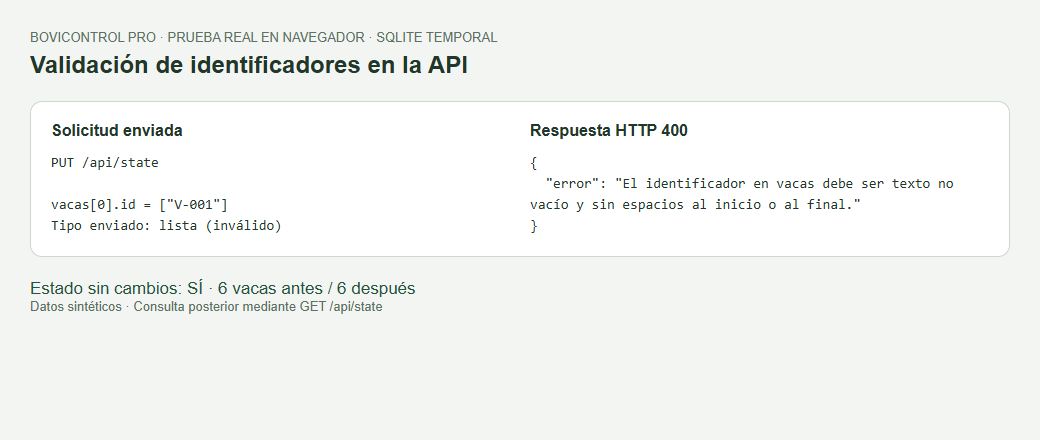
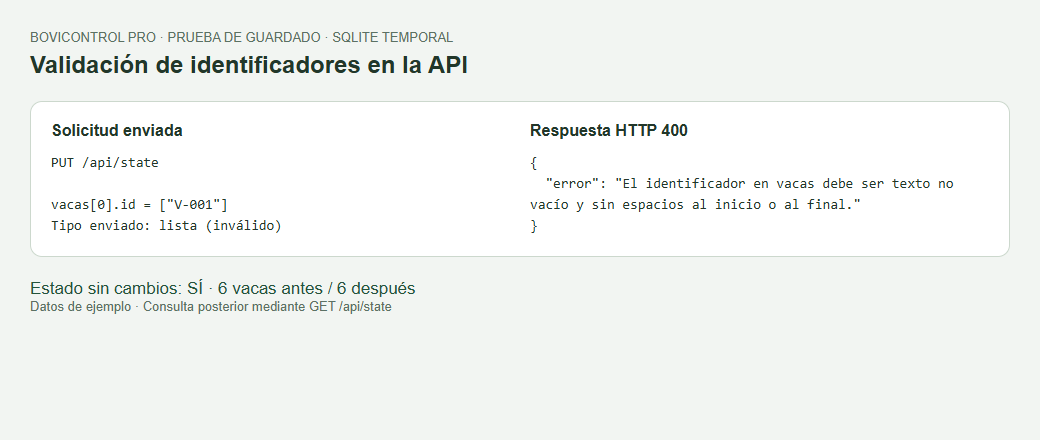
docs: simplificar redaccion y formato del informe

Changed region(s): [[0.2154, 0.0591, 0.4923, 0.1182], [0.0615, 0.6795, 0.3692, 0.7091]]

diff --git a/docs/taller/README.md b/docs/taller/README.md
@@ -10,15 +10,15 @@ Backend y frontend viven en este repositorio. La memoria raíz explica Flask y l
 - [PR #2: validación de registros](https://github.com/carlos-rubio-dev/bovicontrol-pro/pull/2).
 - [PR #3: filtro por estado reproductivo](https://github.com/carlos-rubio-dev/bovicontrol-pro/pull/3).
 
-## Procedencia verificable
+## Planes y pruebas
 
-Los planes se generaron con OpenCode 1.19.5, agente Plan y GLM-5.3-Flash Free. Se exportaron las sesiones y se comprobó que cada archivo de plan coincide exactamente con la última respuesta del agente. El archivo `evidencias/generacion-opencode.json` conserva sesiones, modelo, llamadas a skills completadas y huellas SHA-256.
+Los planes se generaron con OpenCode 1.19.5, agente Plan y GLM-5.3-Flash Free. Se guardó la respuesta final de cada sesión. Los datos de las sesiones y las skills utilizadas están en `evidencias/generacion-opencode.json`.
 
-Los prompts se conservan tal como aparecen en las exportaciones, incluidas las comillas externas que recibió OpenCode. El segundo plan pasó por dos correcciones, guardadas por separado; los planes originales no se reescribieron manualmente. Codex realizó la revisión técnica y la implementación; no se atribuye una revisión humana no registrada.
+Los prompts están guardados junto a los planes. El segundo plan necesitó dos correcciones: una para las etiquetas y la tabla, y otra para los pasos de teclado y los datos de prueba. La revisión del código y la implementación se hicieron con apoyo de Codex.
 
-Las capturas `evidence-skill-*` proceden de la interfaz web real de OpenCode. `evidence-result-2.png` y `evidence-mobile.png` muestran la aplicación con datos sintéticos. `evidence-result-1.png` es la captura de un visor de prueba que muestra una respuesta real de la API y una lectura posterior; su resultado está en `api-result.json`.
+En `evidencias/` están las imágenes del uso de las skills, la respuesta de la API y el filtro de vacas. También se incluye la vista de la aplicación a 700 píxeles de ancho. Los resultados del backend y de la interfaz se guardaron en `api-result.json` y `ui-results.json`.
 
-Las pruebas usaron SQLite temporal. No se probaron MySQL ni el despliegue en producción. El build conserva el aviso previo de tamaño del bundle.
+Las pruebas usaron una base temporal de SQLite con datos de ejemplo. La compilación pasa y conserva el aviso de tamaño del archivo JavaScript que ya tenía el proyecto.
 
 ## Comprobación del backend (PowerShell)
 
